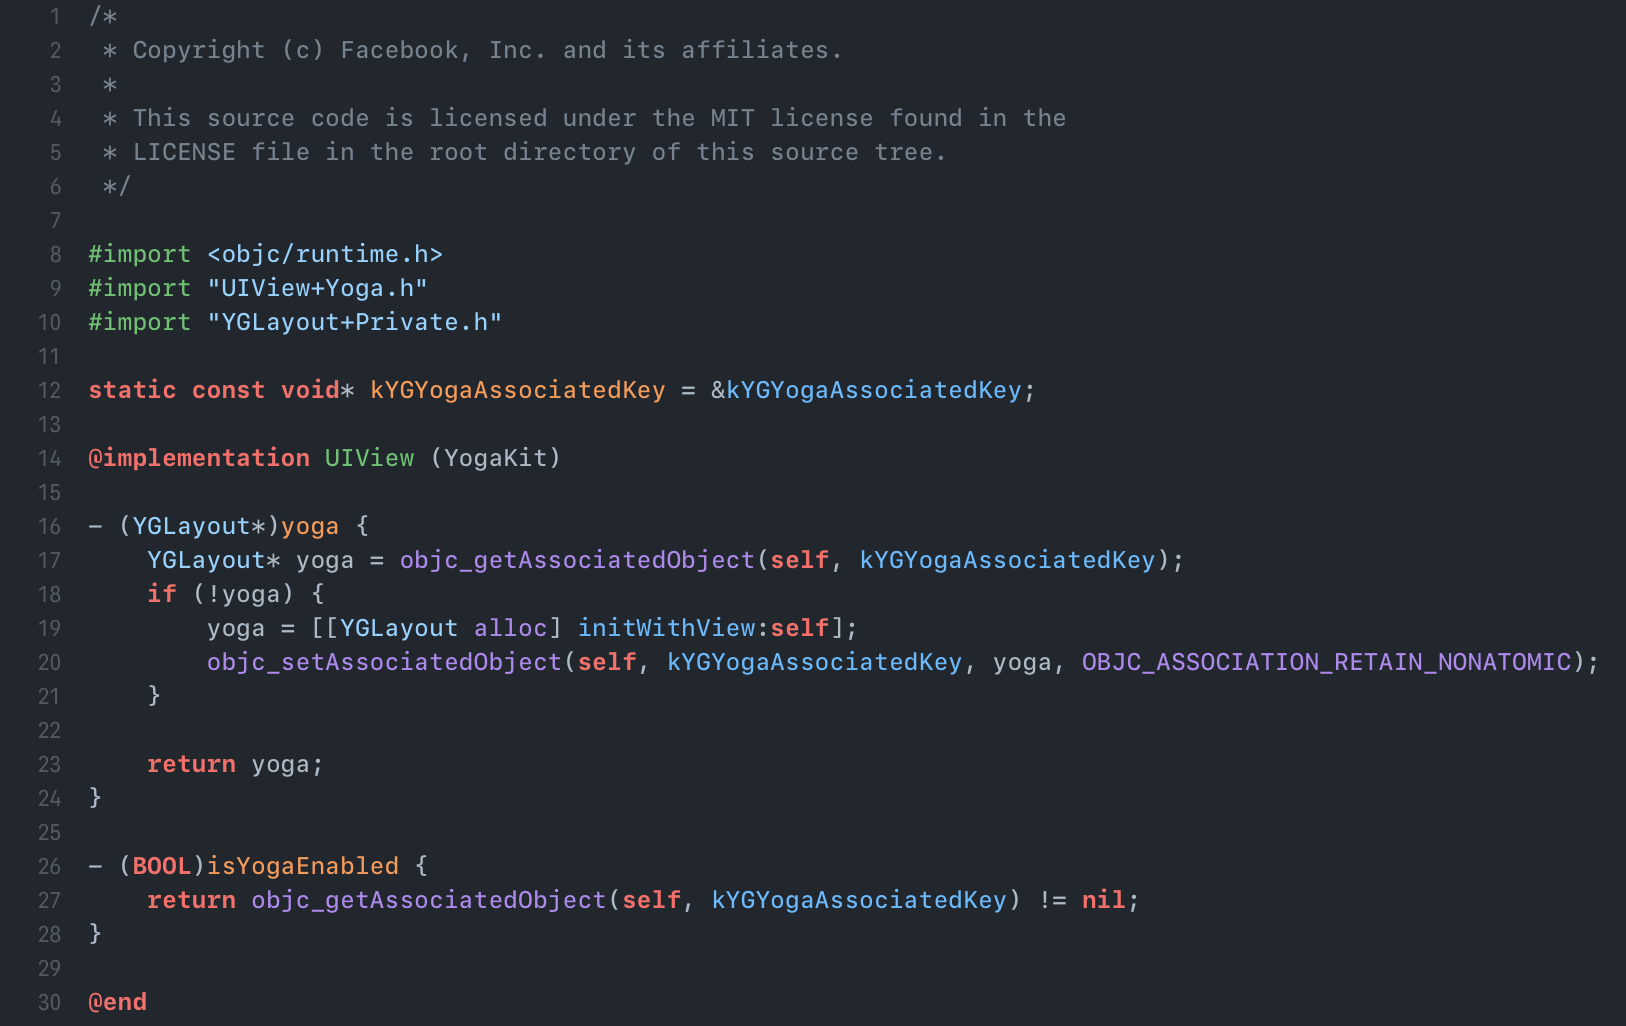
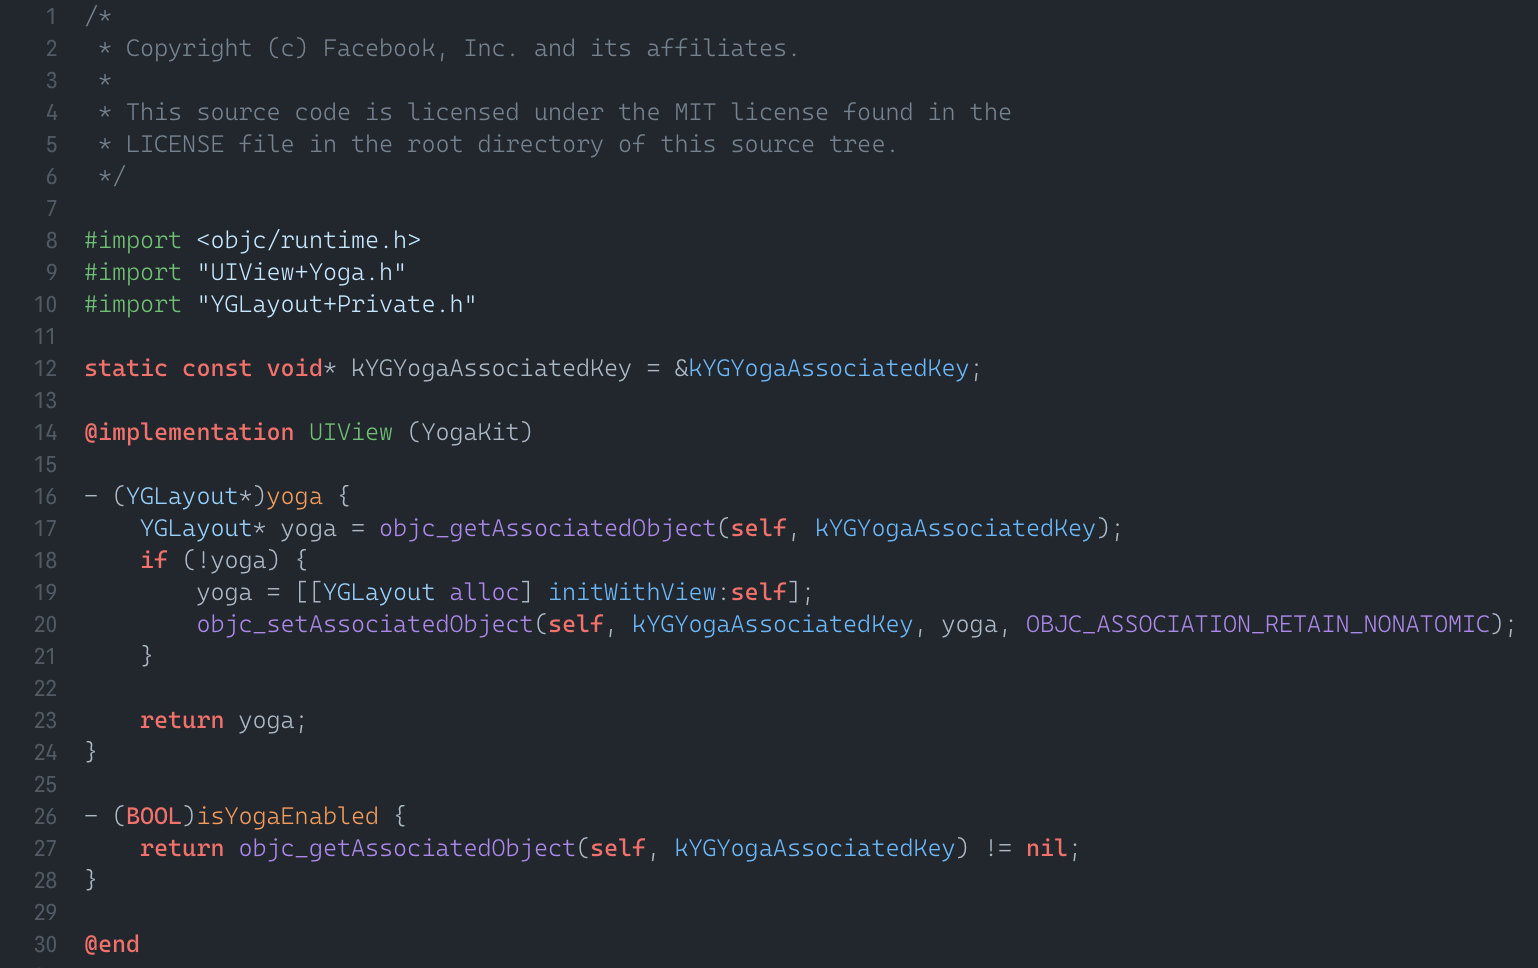
update preview

diff --git a/README.md b/README.md
@@ -2,15 +2,19 @@
 
 Ported version of [github-vscode-theme](https://marketplace.visualstudio.com/items?itemName=GitHub.github-vscode-theme)
 
-## Light theme
+## Preview
+
+Font: [Cascadia Code](https://github.com/microsoft/cascadia-code)
+
+### Light theme
 
 ![](light.png)
 
-## Dark theme
+### Dark theme
 
 ![](dark.png)
 
-## Dark dimmed theme
+### Dark dimmed theme
 
 ![](dark_dimmed.png)
 
